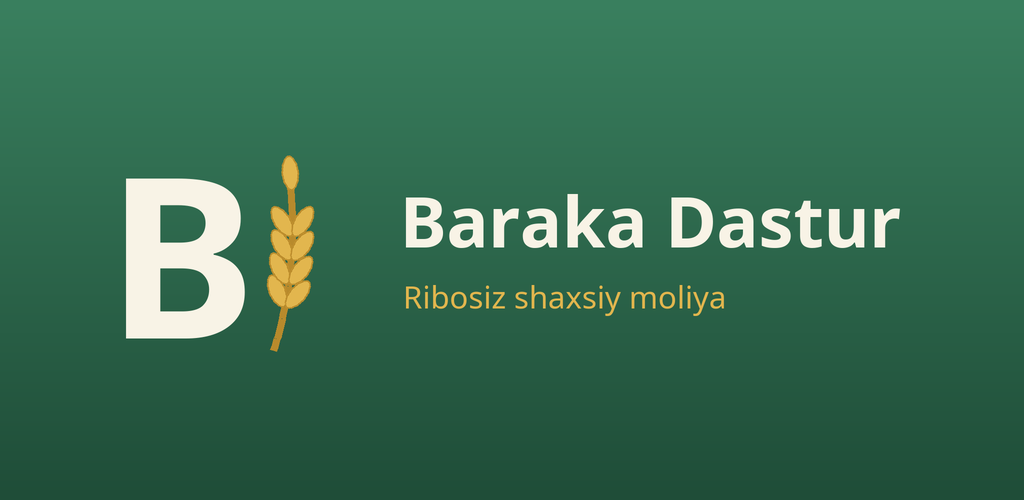
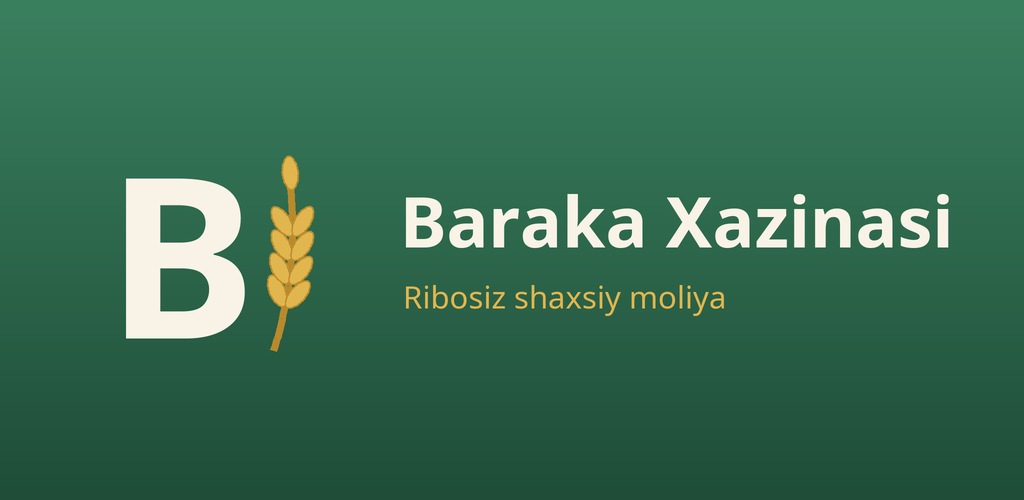
Baraka Xazinasi mobile 1.0.0+7: new name
- The app is now called Baraka Xazinasi (Russian UI: Барака Хазинаси);
  Play package uz.barakaxazinasi.app, demo uz.barakaxazinasi.demo.
- Play feature graphic, store listing texts, privacy policy and the
  privacy screenshot use the new name.
- Version 1.0.0+7; release checklist for the signed release and the
  30-day demo, checked on an Android 16 emulator.

(c) 2026 JurabekM. All rights reserved. See LICENSE.

Changed region(s): [[0.6562, 0.39, 0.9375, 0.51]]

diff --git a/lib/app/l10n/gen/app_localizations_ru.dart b/lib/app/l10n/gen/app_localizations_ru.dart
@@ -9,7 +9,7 @@ class AppLocalizationsRu extends AppLocalizations {
   AppLocalizationsRu([String locale = 'ru']) : super(locale);
 
   @override
-  String get appTitle => 'Барака Дастур';
+  String get appTitle => 'Барака Хазинаси';
 
   @override
   String get languageName => 'Русский';
@@ -142,7 +142,7 @@ class AppLocalizationsRu extends AppLocalizations {
   String get biometricLater => 'Пока не нужно';
 
   @override
-  String get biometricPromptTitle => 'Барака Дастур';
+  String get biometricPromptTitle => 'Барака Хазинаси';
 
   @override
   String get biometricPromptSubtitle => 'Подтвердите, чтобы открыть тетрадь';
@@ -3213,7 +3213,8 @@ class AppLocalizationsRu extends AppLocalizations {
   }
 
   @override
-  String get obWelcome => 'Ассалому алайкум! Добро пожаловать в Барака Дастур';
+  String get obWelcome =>
+      'Ассалому алайкум! Добро пожаловать в Барака Хазинаси';
 
   @override
   String get obLanguage => 'Язык';
@@ -3356,7 +3357,7 @@ class AppLocalizationsRu extends AppLocalizations {
   String get backupBadPassword => 'Неверный пароль или файл повреждён.';
 
   @override
-  String get backupBadFormat => 'Это не резервная копия Барака Дастур.';
+  String get backupBadFormat => 'Это не резервная копия Барака Хазинаси.';
 
   @override
   String get backupVersion =>
@@ -4660,7 +4661,7 @@ class AppLocalizationsRu extends AppLocalizations {
 
   @override
   String privacyIntro(String author) {
-    return 'Baraka Dastur — офлайн-дневник личных и семейных финансов (автор: $author). Эта политика объясняет, с какими данными работает приложение.';
+    return 'Baraka Xazinasi — офлайн-дневник личных и семейных финансов (автор: $author). Эта политика объясняет, с какими данными работает приложение.';
   }
 
   @override

diff --git a/lib/app/l10n/gen/app_localizations_uz.dart b/lib/app/l10n/gen/app_localizations_uz.dart
@@ -9,7 +9,7 @@ class AppLocalizationsUz extends AppLocalizations {
   AppLocalizationsUz([String locale = 'uz']) : super(locale);
 
   @override
-  String get appTitle => 'Baraka Dastur';
+  String get appTitle => 'Baraka Xazinasi';
 
   @override
   String get languageName => 'Oʻzbekcha';
@@ -142,7 +142,7 @@ class AppLocalizationsUz extends AppLocalizations {
   String get biometricLater => 'Hozircha kerak emas';
 
   @override
-  String get biometricPromptTitle => 'Baraka Dastur';
+  String get biometricPromptTitle => 'Baraka Xazinasi';
 
   @override
   String get biometricPromptSubtitle => 'Daftaringizni ochish uchun tasdiqlang';
@@ -3184,7 +3184,7 @@ class AppLocalizationsUz extends AppLocalizations {
   }
 
   @override
-  String get obWelcome => 'Assalomu alaykum! Baraka Dasturga xush kelibsiz';
+  String get obWelcome => 'Assalomu alaykum! Baraka Xazinasiga xush kelibsiz';
 
   @override
   String get obLanguage => 'Til';
@@ -3328,7 +3328,7 @@ class AppLocalizationsUz extends AppLocalizations {
   String get backupBadPassword => 'Parol notoʻgʻri yoki fayl buzilgan.';
 
   @override
-  String get backupBadFormat => 'Bu Baraka Dastur zaxira nusxasi emas.';
+  String get backupBadFormat => 'Bu Baraka Xazinasi zaxira nusxasi emas.';
 
   @override
   String get backupVersion =>
@@ -4624,7 +4624,7 @@ class AppLocalizationsUz extends AppLocalizations {
 
   @override
   String privacyIntro(String author) {
-    return 'Baraka Dastur — internetsiz ishlaydigan shaxsiy va oilaviy moliya daftari (muallif: $author). Bu siyosat ilova qanday maʼlumotlar bilan ishlashini tushuntiradi.';
+    return 'Baraka Xazinasi — internetsiz ishlaydigan shaxsiy va oilaviy moliya daftari (muallif: $author). Bu siyosat ilova qanday maʼlumotlar bilan ishlashini tushuntiradi.';
   }
 
   @override

diff --git a/lib/app/l10n/gen/app_localizations.dart b/lib/app/l10n/gen/app_localizations.dart
@@ -101,7 +101,7 @@ abstract class AppLocalizations {
   /// Ilova nomi
   ///
   /// In uz, this message translates to:
-  /// **'Baraka Dastur'**
+  /// **'Baraka Xazinasi'**
   String get appTitle;
 
   /// Joriy tilning o'z nomi
@@ -335,7 +335,7 @@ abstract class AppLocalizations {
   /// Tizim BiometricPrompt oynasi sarlavhasi
   ///
   /// In uz, this message translates to:
-  /// **'Baraka Dastur'**
+  /// **'Baraka Xazinasi'**
   String get biometricPromptTitle;
 
   /// Tizim BiometricPrompt oynasi izohi
@@ -5518,7 +5518,7 @@ abstract class AppLocalizations {
   /// Sarlavha
   ///
   /// In uz, this message translates to:
-  /// **'Assalomu alaykum! Baraka Dasturga xush kelibsiz'**
+  /// **'Assalomu alaykum! Baraka Xazinasiga xush kelibsiz'**
   String get obWelcome;
 
   /// Sarlavha
@@ -5776,7 +5776,7 @@ abstract class AppLocalizations {
   /// Xato
   ///
   /// In uz, this message translates to:
-  /// **'Bu Baraka Dastur zaxira nusxasi emas.'**
+  /// **'Bu Baraka Xazinasi zaxira nusxasi emas.'**
   String get backupBadFormat;
 
   /// Xato
@@ -8038,7 +8038,7 @@ abstract class AppLocalizations {
   /// Siyosat kirish qismi
   ///
   /// In uz, this message translates to:
-  /// **'Baraka Dastur — internetsiz ishlaydigan shaxsiy va oilaviy moliya daftari (muallif: {author}). Bu siyosat ilova qanday maʼlumotlar bilan ishlashini tushuntiradi.'**
+  /// **'Baraka Xazinasi — internetsiz ishlaydigan shaxsiy va oilaviy moliya daftari (muallif: {author}). Bu siyosat ilova qanday maʼlumotlar bilan ishlashini tushuntiradi.'**
   String privacyIntro(String author);
 
   /// Siyosat: saqlash

diff --git a/test/design/source_policy_test.dart b/test/design/source_policy_test.dart
@@ -14,9 +14,10 @@ import 'package:flutter_test/flutter_test.dart';
 /// (kichik harf, `ʻ`/`ʼ` → `'`, so'zlar bitta bo'shliq bilan, UTF-8). Yangi
 /// ibora: `python tools/denylist_hash.py "ibora"`.
 const _forbidden = <(int, int, String)>[
-  // Eski nom.
+  // Eski nomlar.
[3 lines of base64/hex data omitted]
   // Personajlar.
[2 lines of base64/hex data omitted]
@@ -146,7 +147,7 @@ void main() {
   });
 
   test('roʻyxat yozuvlari toʻgʻri shaklda', () {
-    expect(_forbidden, hasLength(54));
+    expect(_forbidden, hasLength(55));
     for (final (words, length, digest) in _forbidden) {
       expect(words, inInclusiveRange(1, 6));
       expect(length, greaterThanOrEqualTo(4));
@@ -175,11 +176,11 @@ void main() {
     expect(
       gradle,
       contains(
-        'applicationId = if (isDemo) "uz.barakadastur.demo" '
-        'else "uz.barakadastur.app"',
+        'applicationId = if (isDemo) "uz.barakaxazinasi.demo" '
+        'else "uz.barakaxazinasi.app"',
       ),
     );
-    expect(gradle, contains('else "Baraka Dastur"'));
+    expect(gradle, contains('else "Baraka Xazinasi"'));
     expect(gradle, contains('if (hasReleaseSigning && !isDemo) "release"'));
   });
 

diff --git a/test/app/branding_test.dart b/test/app/branding_test.dart
@@ -6,19 +6,19 @@ import 'package:flutter_test/flutter_test.dart';
 
 import '../helpers/pump_app.dart';
 
-/// «Baraka Dastur» nomi va nishoni (`tools/make_icon.py`).
+/// «Baraka Xazinasi» nomi va nishoni (`tools/make_icon.py`).
 void main() {
   testWidgets('qulf ekranida nishon va yangi nom', (tester) async {
     await pumpBarakaApp(tester, unlock: false);
     expect(find.byKey(const Key('brand-logo')), findsOneWidget);
-    expect(find.text('Baraka Dastur'), findsOneWidget);
+    expect(find.text('Baraka Xazinasi'), findsOneWidget);
   });
 
   testWidgets('onboardingning birinchi sahifasida nishon', (tester) async {
     await pumpBarakaApp(tester, onboarded: false);
     expect(find.byKey(const Key('brand-logo')), findsOneWidget);
     expect(
-      find.textContaining('Baraka Dasturga xush kelibsiz'),
+      find.textContaining('Baraka Xazinasiga xush kelibsiz'),
       findsOneWidget,
     );
   });

diff --git a/lib/core/pdf/baraka_pdf.dart b/lib/core/pdf/baraka_pdf.dart
@@ -117,7 +117,7 @@ abstract final class BarakaPdf {
     required List<PdfBlock> blocks,
     String? subtitle,
 
-    /// Har sahifa pastida (masalan, «Baraka Dastur · 07.10.2026»).
+    /// Har sahifa pastida (masalan, «Baraka Xazinasi · 07.10.2026»).
     String? footer,
 
     /// Sahifa raqami formati: (joriy, jami) → matn.
@@ -126,8 +126,8 @@ abstract final class BarakaPdf {
     final doc =
         pw.Document(
           title: title,
-          creator: 'Baraka Dastur',
-          producer: 'Baraka Dastur',
+          creator: 'Baraka Xazinasi',
+          producer: 'Baraka Xazinasi',
           theme: pw.ThemeData.withFont(
             base: fonts.regular,
             bold: fonts.bold,

diff --git a/test/core/pdf/baraka_pdf_test.dart b/test/core/pdf/baraka_pdf_test.dart
@@ -29,7 +29,7 @@ void main() {
       fonts: fonts,
       title: 'Qarz tilxati',
       subtitle: 'Shaxsiy hisob uchun yozuv',
-      footer: 'Baraka Dastur · 07.10.2026',
+      footer: 'Baraka Xazinasi · 07.10.2026',
       blocks: [
         const PdfHeading('1. Tomonlar'),
         const PdfParagraph(uzbek),
@@ -63,7 +63,7 @@ void main() {
     final raw = String.fromCharCodes(bytes);
     // Shrift PDF ichiga joylangan (tashqi shriftga tayanmaydi).
     expect(raw, contains('/FontFile2'));
-    expect(raw, contains('Baraka Dastur'));
+    expect(raw, contains('Baraka Xazinasi'));
 
     final out = Platform.environment['PDF_SAMPLE_OUT'];
     if (out != null) File(out).writeAsBytesSync(bytes);

diff --git a/test/app/l10n_test.dart b/test/app/l10n_test.dart
@@ -52,7 +52,7 @@ void main() {
       AppLanguage.ru,
     );
     expect(find.text('Введите PIN-код'), findsOneWidget);
-    expect(find.text('Барака Дастур'), findsOneWidget);
+    expect(find.text('Барака Хазинаси'), findsOneWidget);
 
     await tester.tap(find.byKey(const Key('switch-language')));
     await tester.pumpAndSettle();

diff --git a/lib/app/widgets/brand_logo.dart b/lib/app/widgets/brand_logo.dart
@@ -1,6 +1,6 @@
 import 'package:flutter/material.dart';
 
-/// «Baraka Dastur» nishoni: yashil fonda «B» va bug'doy boshog'i
+/// «Baraka Xazinasi» nishoni: yashil fonda «B» va bug'doy boshog'i
 /// (`tools/make_icon.py` yaratadi). Yonida ilova nomi matni bo'lgani uchun
 /// ekran o'quvchisiga alohida o'qilmaydi.
 class BrandLogo extends StatelessWidget {

diff --git a/android/app/src/test/kotlin/uz/barakadaftari/app/native/BackupCipherTest.kt b/android/app/src/test/kotlin/uz/barakadaftari/app/native/BackupCipherTest.kt
@@ -6,7 +6,7 @@ import org.junit.Assert.assertFalse
 import org.junit.Test
 
 class BackupCipherTest {
-    private val plain = "Baraka Dastur — zaxira nusxa".toByteArray()
+    private val plain = "Baraka Xazinasi — zaxira nusxa".toByteArray()
 
     @Test
     fun roundTripWithRightPassword() {

diff --git a/test/features/partnerships/partnership_contract_pdf_test.dart b/test/features/partnerships/partnership_contract_pdf_test.dart
@@ -30,7 +30,7 @@ const doc = PartnershipContractDoc(
     PdfSignature(role: 'Sherik', name: 'Dilnoza'),
     PdfSignature(role: 'Guvoh', name: 'Shoʼba', signedAt: '10.10.2026'),
   ],
-  footer: 'Baraka Dastur · 10.10.2026',
+  footer: 'Baraka Xazinasi · 10.10.2026',
 );
 
 void main() {

diff --git a/lib/app/app_info.dart b/lib/app/app_info.dart
@@ -5,5 +5,5 @@ abstract final class AppInfo {
   static const author = 'JurabekM';
   static const copyrightYear = '2026';
   static const version = '1.0.0';
-  static const build = 6;
+  static const build = 7;
 }
